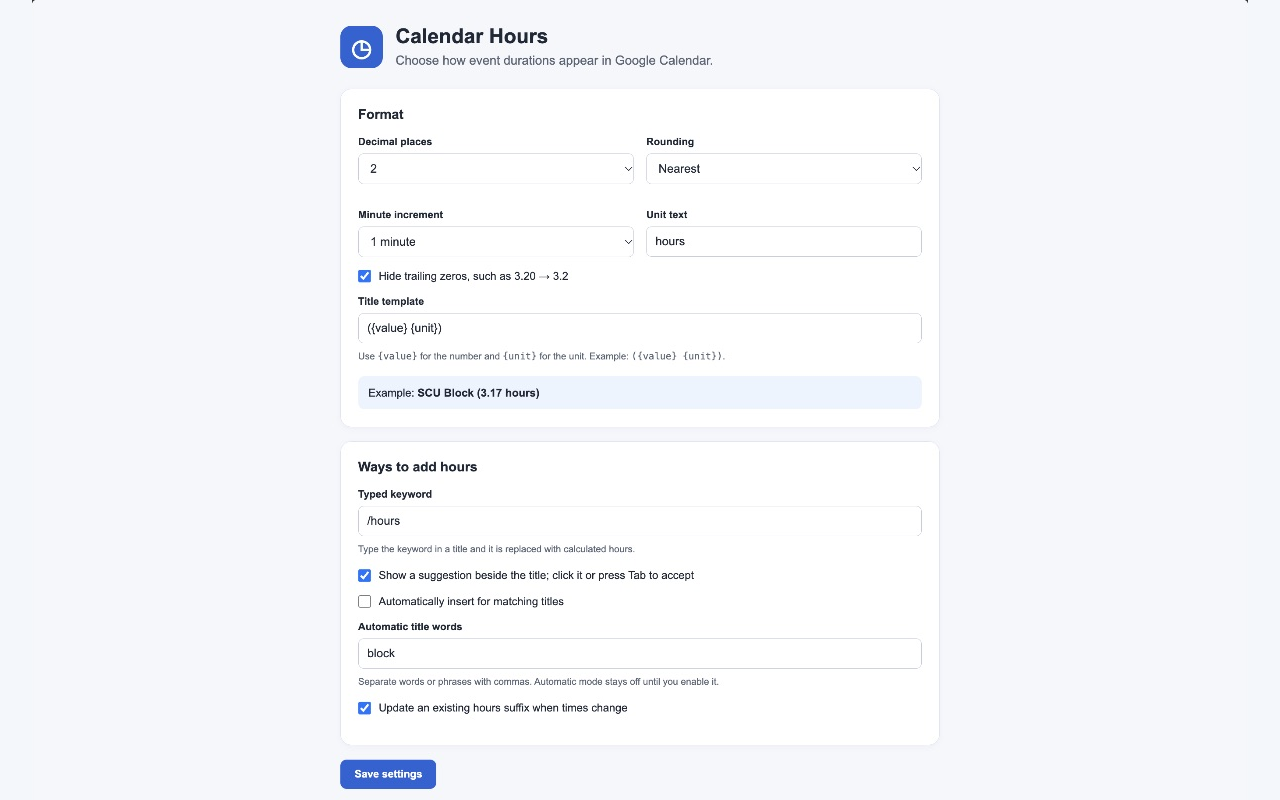
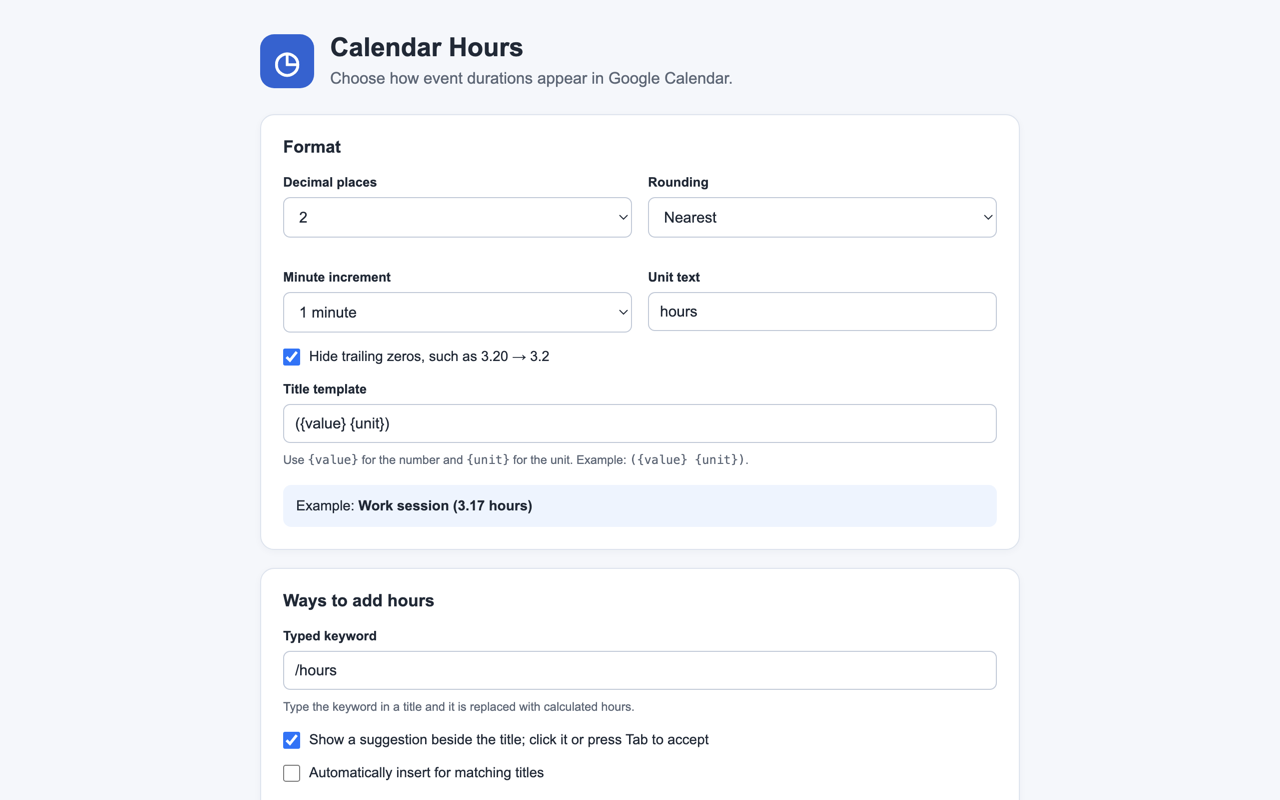
Prepare v0.2.1 release with generic settings examples

diff --git a/extension/options.html b/extension/options.html
@@ -24,7 +24,7 @@
         <label class="check"><input type="checkbox" name="trimZeros" checked> Hide trailing zeros, such as 3.20 → 3.2</label>
         <label>Title template <input name="template" maxlength="100" value="({value} {unit})" required></label>
         <p class="hint">Use <code>{value}</code> for the number and <code>{unit}</code> for the unit. Example: <code>({value} {unit})</code>.</p>
-        <div class="preview">Example: <strong id="preview">SCU Block (3.17 hours)</strong></div>
+        <div class="preview">Example: <strong id="preview">Work session (3.17 hours)</strong></div>
       </section>
       <section>
         <h2>Ways to add hours</h2>
@@ -32,8 +32,8 @@
         <p class="hint">Type the keyword in a title and it is replaced with calculated hours.</p>
         <label class="check"><input type="checkbox" name="showSuggestion" checked> Show a suggestion beside the title; click it or press Tab to accept</label>
         <label class="check"><input type="checkbox" name="automatic"> Automatically insert for matching titles</label>
-        <label>Matching title words or phrases <input name="autoWords" maxlength="200" value="block" placeholder="SCU Block, work session"></label>
-        <p class="hint">Separate matches with commas. Matching uses whole words or phrases, ignoring case. For only your SCU blocks, enter <code>SCU Block</code>.</p>
+        <label>Matching title words or phrases <input name="autoWords" maxlength="200" value="block" placeholder="Work block, study session"></label>
+        <p class="hint">Separate matches with commas. Matching uses whole words or phrases, ignoring case. To target a specific type of event, enter its title phrase, such as <code>Work block</code>.</p>
         <label class="check"><input type="checkbox" name="keepUpdated"> Keep matching event hours updated and saved after moving or resizing an event in Calendar</label>
         <p class="hint">When enabled, the extension shows the new hours on the grid immediately, then saves the changed event in an inactive Calendar tab. It also updates titles when you edit start or end times in the event editor. Existing suffix replacement is enabled with this setting. Events with repeat rules are left for you to review.</p>
         <label class="check"><input type="checkbox" name="replaceExisting" checked> Update an existing hours suffix when times change</label>

diff --git a/extension/options.js b/extension/options.js
@@ -15,7 +15,7 @@
   function preview() {
     const cfg = values();
     const formatted = core.formattedDuration(190, cfg);
-    document.querySelector("#preview").textContent = core.titleWithDuration("SCU Block", formatted, cfg);
+    document.querySelector("#preview").textContent = core.titleWithDuration("Work session", formatted, cfg);
   }
 
   chrome.storage.sync.get(null).then(saved => {

diff --git a/README.md b/README.md
@@ -2,15 +2,15 @@
 
 Calendar Hours is a Manifest V3 extension for Google Calendar in Chrome and Microsoft Edge. It calculates the elapsed hours between an event's start and end time and inserts the result into the event title. It runs in the Calendar page, without a server or Google Calendar API access.
 
-Source is kept in the [private GitHub repository](https://github.com/austinkimchi/calendar-hours). The [v0.2.0 release](https://github.com/austinkimchi/calendar-hours/releases/tag/v0.2.0) includes the packaged ZIP. The [Chrome Web Store submission notes](STORE_LISTING.md) record the current unlisted listing.
+Source is kept in the [private GitHub repository](https://github.com/austinkimchi/calendar-hours). The [v0.2.1 release](https://github.com/austinkimchi/calendar-hours/releases/tag/v0.2.1) includes the packaged ZIP. The [Chrome Web Store submission notes](STORE_LISTING.md) record the unlisted listing.
 
-**Store status (October 26, 2026):** v0.1.0 is pending Chrome Web Store review. The v0.2.0 private GitHub release and this v0.2.1 development build have not been submitted to the store at the user's request. The unlisted store link will become installable in Edge after v0.1.0 approval and automatic publication. Developer mode is not needed for the store version.
+**Store status (last verified October 26, 2026):** v0.1.0 was pending Chrome Web Store review. v0.2.1 is prepared for submission. The unlisted store link will become installable in Edge after Google approves and publishes an accepted version. Developer mode is not needed for the store version.
 
 ## Use
 
 1. Open a timed event in Google Calendar's quick composer or full editor.
 2. Enter a title and start/end times.
-3. Click the duration suggestion beside the title, or press **Tab** while the title field is focused. The default format is `SCU Block (3.17 hours)` for a 10:15am–1:25pm event.
+3. Click the duration suggestion beside the title, or press **Tab** while the title field is focused. The default format is `Work session (3.17 hours)` for a 10:15am–1:25pm event.
 4. Save the event using Google Calendar's **Save** button.
 
 Other ways to insert or update hours:
@@ -19,7 +19,7 @@ Other ways to insert or update hours:
 - Press **Ctrl+Shift+H** on Windows/Linux or **Command+Shift+H** on macOS while an event editor is open. Browser shortcut conflicts can be resolved at `chrome://extensions/shortcuts` or `edge://extensions/shortcuts`.
 - Click the extension icon, then **Add hours to open event**.
 - In Settings, enable **Automatically insert for matching titles**. The default match word is `block`; add comma separated words or phrases as needed.
-- In Settings, enable **Keep matching event hours updated and saved**. After you drag or resize a matching timed event on the Calendar grid, the extension shows the new hours immediately and saves the title from an inactive Calendar tab. The same setting updates a matching title when you change its start or end fields in the editor; use Calendar's Save button for those manual edits. Set **Matching title words or phrases** to `SCU Block` to target only that phrase. Matching ignores case and respects word boundaries.
+- In Settings, enable **Keep matching event hours updated and saved**. After you drag or resize a matching timed event on the Calendar grid, the extension shows the new hours immediately and saves the title from an inactive Calendar tab. The same setting updates a matching title when you change its start or end fields in the editor; use Calendar's Save button for those manual edits. Set **Matching title words or phrases** to a specific phrase such as `Work block` to target only that type of event. Matching ignores case and respects word boundaries.
 
 ## Formatting
 
@@ -29,7 +29,7 @@ The initial settings use nearest rounding to two decimal places, a one minute in
 
 ## Privacy and scope
 
-The extension has access only to `calendar.google.com/calendar/*` and asks for the `storage` permission to save settings. It reads visible event title and time fields and calculates locally. When **Keep matching event hours updated and saved** is enabled, it opens an inactive Calendar tab and uses Calendar's own Save button after a matching grid move or resize. It does not make its own network requests or collect event data. The public [store privacy policy](https://gist.github.com/austinkimchi/6069defb02ecb9c38b5b2c7d4feb65c7) currently describes v0.1.0; [PRIVACY.md](PRIVACY.md) is the draft policy for this development build.
+The extension has access only to `calendar.google.com/calendar/*` and asks for the `storage` permission to save settings. It reads visible event title and time fields and calculates locally. When **Keep matching event hours updated and saved** is enabled, it opens an inactive Calendar tab and uses Calendar's own Save button after a matching grid move or resize. It does not make its own network requests or collect event data. The public [store privacy policy](https://gist.github.com/austinkimchi/6069defb02ecb9c38b5b2c7d4feb65c7) describes this behavior.
 
 The current implementation supports Google Calendar's English quick composer and full event editor. Calendar changes to those page controls may require an extension update. All-day events, invalid times, events longer than seven days, and recurring events are skipped by grid auto-save. If Calendar asks for further confirmation, the extension leaves that decision to you. Elapsed time uses the browser's local time zone, so use the same time zone in Google Calendar for correct cross-day and daylight-saving calculations.
 
@@ -41,7 +41,7 @@ npm test
 npm run package
 ```
 
-The generated `dist/calendar-hours-0.2.1.zip` has `manifest.json` at its root. This build is for local testing and has not been submitted to the Chrome Web Store. Chrome Web Store extensions can also be installed in Microsoft Edge; Edge may ask you to allow extensions from other stores.
+The generated `dist/calendar-hours-0.2.1.zip` has `manifest.json` at its root. Chrome Web Store extensions can also be installed in Microsoft Edge; Edge may ask you to allow extensions from other stores.
 
 For a local development check only, load the `extension` folder from the browser's Extensions page. The store package does not need Developer mode after publication.
 

diff --git a/STORE_LISTING.md b/STORE_LISTING.md
@@ -6,15 +6,15 @@
 
 **Detailed description:**
 
-Calendar Hours turns event start and end times into a title suffix such as `SCU Block (3.17 hours)`. It works in Google Calendar's quick composer and full event editor. Accept a suggested duration with a click or Tab, type `/hours`, use the keyboard shortcut, or enable automatic insertion for titles matching your chosen words. Set decimal places, rounding mode, minute increment, unit text, and title template in Settings. Existing trailing hours can be updated after you change event times. Calculations happen in your browser, and the extension leaves saving the event to you.
+Calendar Hours turns event start and end times into a title suffix such as `Work session (3.17 hours)`. It works in Google Calendar's quick composer and full event editor. Accept a suggested duration with a click or Tab, type `/hours`, use the keyboard shortcut, or enable automatic insertion for titles matching your chosen words. Set decimal places, rounding mode, minute increment, unit text, and title template in Settings. Optionally keep matching one-time event titles current after moving or resizing them on the Calendar grid: the new hours appear immediately, and the extension saves the corrected title through Calendar. Manual editor changes still use Calendar's Save button.
 
 **Single purpose:** Calculate and insert elapsed hours into Google Calendar event titles.
 
 **Permission justification:** `storage` stores the user's formatting and trigger preferences. The `calendar.google.com/calendar/*` content-script match is necessary to read the event editor's visible title and time fields and insert the resulting title text. No other site is accessed.
 
-**Data disclosure:** The extension processes event title and time fields locally in the browser. It does not collect or transmit user data. Preferences use browser extension storage and may be synced by the browser if the user enabled browser sync.
+**Data disclosure:** The extension processes event title and time fields locally in the browser. It does not collect event data or send it to the developer or a separate service. With the optional keep-updated setting, it uses Google Calendar's Save button to save a corrected event under the user's Google account. Preferences use browser extension storage and may be synced by the browser if the user enabled browser sync.
 
-**Privacy policy:** [Public policy for v0.1.0](https://gist.github.com/austinkimchi/6069defb02ecb9c38b5b2c7d4feb65c7). The local `PRIVACY.md` is a draft for the later keep-updated build. Only the public policy is visible outside the private source repository.
+**Privacy policy:** [Public policy](https://gist.github.com/austinkimchi/6069defb02ecb9c38b5b2c7d4feb65c7), matching `PRIVACY.md`. Only the public policy is visible outside the private source repository.
 
 **Listing assets:** `store-assets/settings-screenshot.png` shows the extension's actual settings page at 1280 × 800. The package includes the icon and short description.
 
@@ -22,4 +22,4 @@ Calendar Hours turns event start and end times into a title suffix such as `SCU 
 
 **Dashboard:** [Calendar Hours item](https://chrome.google.com/webstore/devconsole/29ef0f4a-68bb-4294-b32d-e38c5258ce17/gkhggalcelmdidfdnllmdpaaapjiegig/edit), item ID `gkhggalcelmdidfdnllmdpaaapjiegig`. Version 0.1.0 was submitted on October 26, 2026; the dashboard showed **Pending review** with automatic publication after approval enabled. The unlisted store link will become installable once Google approves and publishes it.
 
-**Later builds:** Version 0.2.0 is a private GitHub release. Version 0.2.1 is a local development build that makes grid updates less visible. Neither has been submitted to the Chrome Web Store, per the user's request. Update the public privacy policy, listing copy, and screenshot when the user decides to submit a later build.
+**Next submission:** Version 0.2.1 is packaged for the Chrome Web Store. The dashboard listing copy and settings screenshot should be updated for this release. Confirm the dashboard's current review status before uploading, then verify the uploaded version and submission state there.

diff --git a/CHANGELOG.md b/CHANGELOG.md
@@ -1,12 +1,13 @@
 # Changelog
 
-## 0.2.1 — development build, October 26, 2026
+## 0.2.1 — October 26, 2026
 
 - Show the recalculated hours on the Calendar grid as soon as a matching drag or resize finishes.
 - Save and verify the corrected title in an inactive Calendar tab so the main Calendar view stays open.
 - Queue a second grid edit if it happens before the first background save finishes.
-- Correct the grid update path using the live Calendar editor and recurrence controls observed in Edge. This build has not been submitted to the Chrome Web Store.
+- Correct the grid update path using the live Calendar editor and recurrence controls observed in Edge.
 - Keep updating when Calendar opens event details during a grid resize, and paint the new hours in that popup while the title saves. Live Edge resize and restore both persisted after reloading Calendar.
+- Use a generic Work session example throughout Settings.
 
 ## 0.2.0 — October 26, 2026
 
